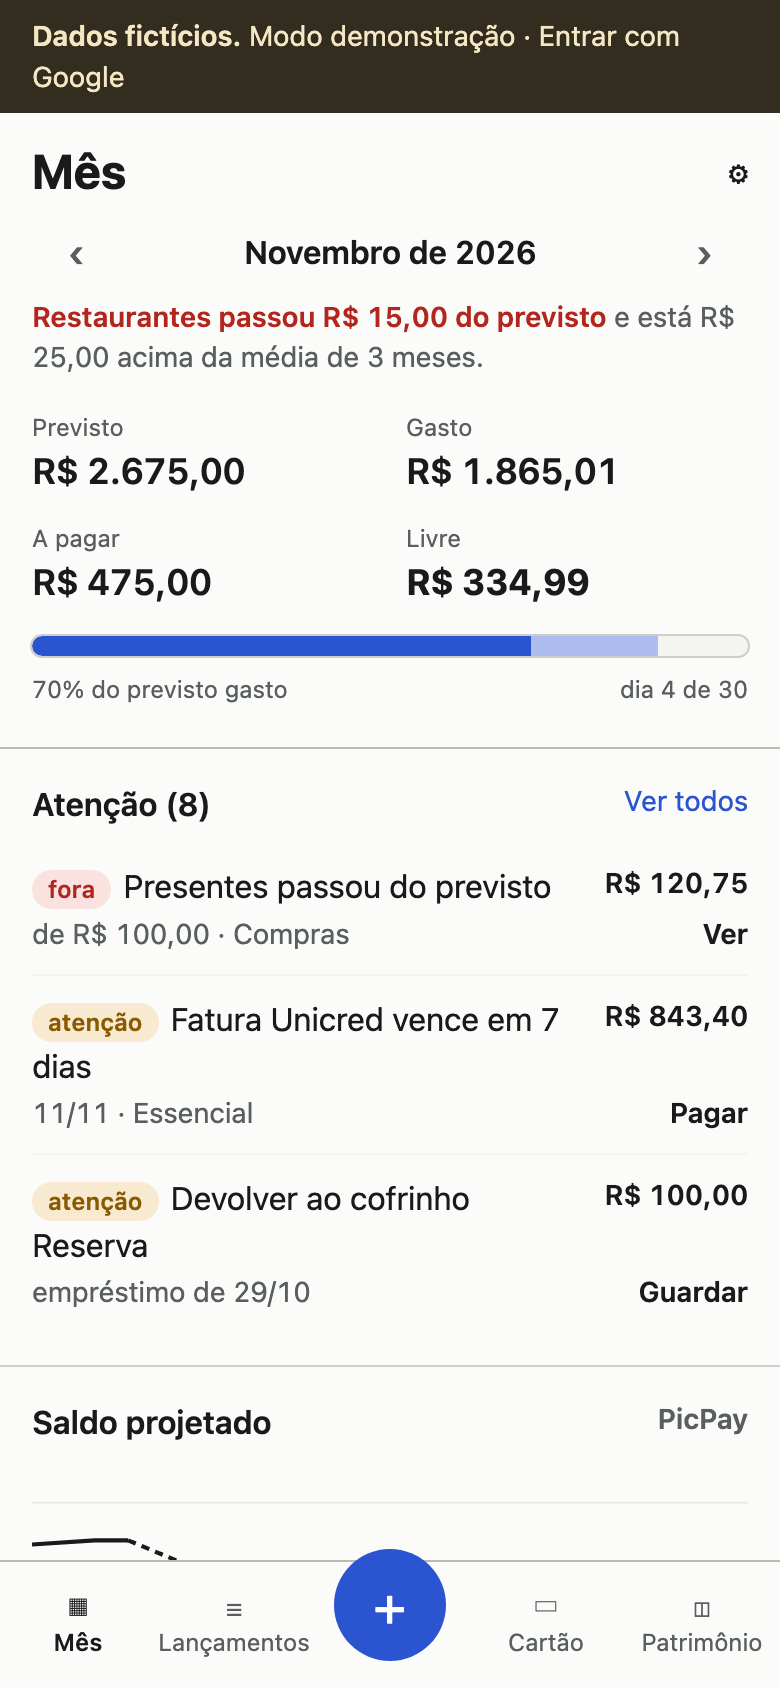
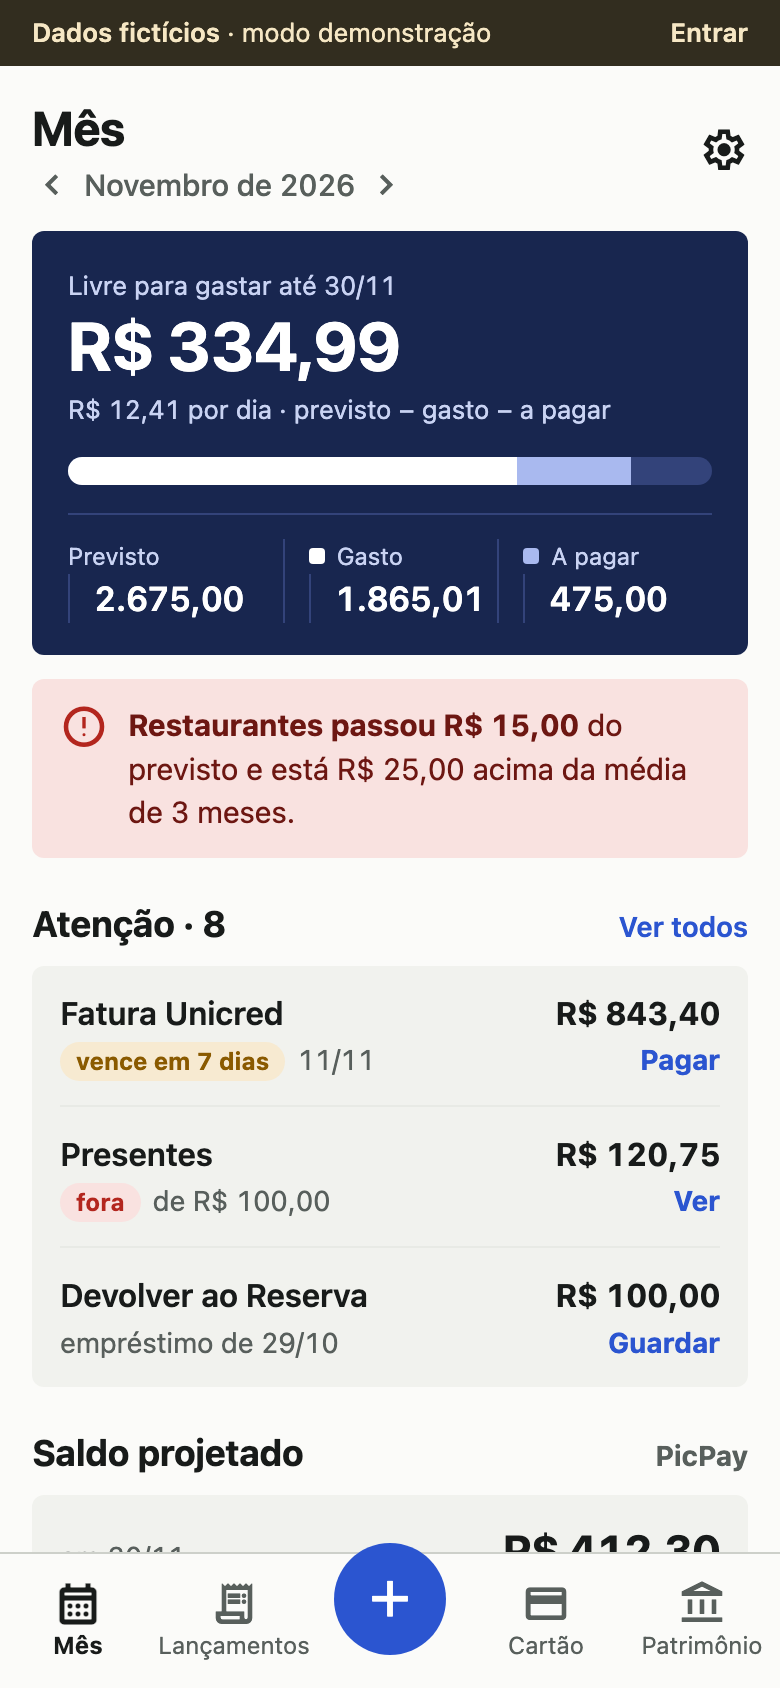
docs: esboço do Mês com bloco de destaque

diff --git a/docs/v3/esbocos/mes.html b/docs/v3/esbocos/mes.html
@@ -1,69 +1,93 @@
 <!doctype html>
 <html lang="pt-BR"><head><meta charset="utf-8"><meta name="viewport" content="width=device-width,initial-scale=1">
-<title>Mês · esboço</title>
+<title>Mês · esboço v2</title>
+<link rel="stylesheet" href="https://fonts.googleapis.com/css2?family=Material+Symbols+Outlined:opsz,wght,FILL,GRAD@24,400,0,0">
 <style>
-:root{--fundo:#fbfbf9;--sup:#f4f4f1;--texto:#181b1a;--t2:#585f5c;--regua:#cdd0ca;--forte:#b8bcb5;--azul:#2b55d0;--azul-claro:#aebdf0;--fora:#b3261e;--fora-f:#f9e2e0;--perto:#8a5a00;--perto-f:#f7ead1;--tarja:#322d1f;--tarja-t:#f6e7c4}
+:root{--fundo:#fbfbf9;--sup:#f1f2ee;--sup2:#e8eae5;--texto:#181b1a;--t2:#585f5c;--regua:#cdd0ca;--azul:#2b55d0;--azul-claro:#a9b9ef;--azul-f:#e6ecfb;--fora:#b3261e;--fora-f:#f9e2e0;--perto:#8a5a00;--perto-f:#f7ead1;--tarja:#322d1f;--tarja-t:#f6e7c4}
 *{box-sizing:border-box;margin:0}
-html{width:390px;overflow:hidden}body{width:390px;font:16px/1.45 system-ui,-apple-system,"Segoe UI",Roboto,sans-serif;background:var(--fundo);color:var(--texto);font-variant-numeric:tabular-nums;padding-bottom:80px}
-.tarja{background:var(--tarja);color:var(--tarja-t);font-size:14px;padding:8px 16px}
-.tarja b{font-weight:600}
-header{display:flex;justify-content:space-between;align-items:center;padding:12px 16px 0}
-h1{font-size:24px;font-weight:700}
-.mes{display:flex;justify-content:space-between;align-items:center;padding:8px 16px;font-weight:600}
-.mes span{color:var(--t2);font-size:20px;width:44px;text-align:center}
-.achado{margin:0 16px 16px;font-size:14px;color:var(--t2)}
-.achado b{color:var(--fora);font-weight:600}
-.regua{padding:0 16px 20px;border-bottom:1px solid var(--forte)}
-.grade{display:grid;grid-template-columns:1fr 1fr;gap:12px 16px;margin-bottom:14px}
-.rot{font-size:12px;color:var(--t2)}
-.val{font-size:18px;font-weight:600}
-.val.livre{font-weight:700}
-.trilho{height:10px;border-radius:999px;background:var(--sup);display:flex;overflow:hidden;outline:1px solid var(--regua)}
+html{width:390px;overflow:hidden}
+body{width:390px;font:16px/1.45 system-ui,-apple-system,"Segoe UI",Roboto,sans-serif;background:var(--fundo);color:var(--texto);font-variant-numeric:tabular-nums;padding-bottom:84px}
+.ms{font-family:"Material Symbols Outlined";font-size:24px;line-height:1;vertical-align:middle}
+.tarja{background:var(--tarja);color:var(--tarja-t);font-size:13px;padding:7px 16px;display:flex;justify-content:space-between}
+.tarja b{font-weight:600}.tarja u{text-decoration:none;font-weight:600}
+header{display:flex;justify-content:space-between;align-items:center;padding:14px 16px 2px}
+h1{font-size:24px;font-weight:700;letter-spacing:-.01em}
+.mes{display:flex;align-items:center;gap:6px;color:var(--t2);font-size:15px;font-weight:500}
+/* bloco herói: fundo azul escuro, o único campo de cor da tela */
+.heroi{margin:10px 16px 0;background:#18264f;color:#fff;border-radius:6px;padding:18px 18px 16px}
+.heroi .rot{font-size:13px;color:#c9d3f3}
+.heroi .livre{font-size:34px;font-weight:700;letter-spacing:-.02em;line-height:1.1;margin:2px 0 4px}
+.heroi .conta{font-size:13px;color:#c9d3f3;margin-bottom:14px}
+.trilho{height:14px;border-radius:999px;background:#33437a;display:flex;overflow:hidden}
 .trilho i{display:block;height:100%}
-.legenda{font-size:12px;color:var(--t2);margin-top:8px;display:flex;justify-content:space-between}
-section{padding:16px;border-bottom:1px solid var(--regua)}
-h2{font-size:16px;font-weight:600;display:flex;justify-content:space-between;margin-bottom:8px}
-h2 a{font-size:14px;color:var(--azul);font-weight:400;text-decoration:none}
-.item{display:grid;grid-template-columns:1fr auto;gap:2px 12px;padding:10px 0;border-top:1px solid var(--sup)}
-.item:first-of-type{border-top:0}
+.tres{display:grid;grid-template-columns:repeat(3,1fr);margin-top:14px;border-top:1px solid #33437a;padding-top:12px}
+.tres div+div{border-left:1px solid #33437a;padding-left:12px}
+.tres .r{font-size:12px;color:#c9d3f3;display:flex;align-items:center;gap:6px}
+.tres .v{font-size:17px;font-weight:600}
+.dot{width:8px;height:8px;border-radius:2px;display:inline-block}
+/* achado */
+.achado{margin:12px 16px 0;background:var(--fora-f);color:#6d1712;border-radius:6px;padding:12px 14px;display:flex;gap:10px;font-size:15px}
+.achado .ms{color:var(--fora)}
+.achado b{font-weight:700}
+section{margin:20px 16px 0}
+h2{font-size:18px;font-weight:700;display:flex;justify-content:space-between;align-items:baseline;margin-bottom:8px}
+h2 a{font-size:14px;color:var(--azul);font-weight:600;text-decoration:none}
+.lista{background:var(--sup);border-radius:6px;padding:0 14px}
+.item{display:grid;grid-template-columns:1fr auto;gap:2px 12px;padding:12px 0;border-top:1px solid var(--sup2)}
+.item:first-child{border-top:0}
+.nome{font-weight:600}
+.valor{font-weight:700;text-align:right}
 .sub{font-size:14px;color:var(--t2)}
-.selo{display:inline-block;font-size:12px;font-weight:600;border-radius:999px;padding:1px 8px;margin-right:6px}
+.acao{font-size:14px;font-weight:700;color:var(--azul);text-align:right}
+.selo{display:inline-block;font-size:12px;font-weight:700;border-radius:999px;padding:1px 8px;margin-right:6px}
 .selo.f{background:var(--fora-f);color:var(--fora)}.selo.p{background:var(--perto-f);color:var(--perto)}
-.acao{font-size:14px;color:var(--texto);font-weight:600;text-align:right}
-nav{position:fixed;bottom:0;left:0;width:390px;height:64px;background:var(--fundo);border-top:1px solid var(--forte);display:grid;grid-template-columns:repeat(5,1fr);align-items:center;text-align:center;font-size:12px;color:var(--t2)}
-nav .ativo{color:var(--texto);font-weight:600}
-nav .lancar{width:56px;height:56px;border-radius:50%;background:var(--azul);color:#fff;font-size:28px;line-height:56px;margin:-20px auto 0}
+.proj{background:var(--sup);border-radius:6px;padding:12px 14px}
+.proj .fim{display:flex;justify-content:space-between;align-items:baseline}
+.proj .fim b{font-size:22px;letter-spacing:-.01em}
+nav{position:fixed;bottom:0;left:0;width:390px;height:68px;background:var(--fundo);border-top:1px solid var(--regua);display:grid;grid-template-columns:repeat(5,1fr);align-items:center;text-align:center;font-size:12px;color:var(--t2)}
+nav .ativo{color:var(--texto);font-weight:700}
+nav .lancar{width:56px;height:56px;border-radius:50%;background:var(--azul);color:#fff;display:flex;align-items:center;justify-content:center;margin:-22px auto 0}
+nav .lancar .ms{font-size:30px}
 </style></head><body>
-<div class="tarja"><b>Dados fictícios.</b> Modo demonstração · Entrar com Google</div>
-<header><h1>Mês</h1><span aria-label="Ajustes">⚙</span></header>
-<div class="mes"><span>‹</span>Novembro de 2026<span>›</span></div>
-<p class="achado"><b>Restaurantes passou R$ 15,00 do previsto</b> e está R$ 25,00 acima da média de 3 meses.</p>
-<div class="regua">
-  <div class="grade">
-    <div><div class="rot">Previsto</div><div class="val">R$ 2.675,00</div></div>
-    <div><div class="rot">Gasto</div><div class="val">R$ 1.865,01</div></div>
-    <div><div class="rot">A pagar</div><div class="val">R$ 475,00</div></div>
-    <div><div class="rot">Livre</div><div class="val livre">R$ 334,99</div></div>
+<div class="tarja"><span><b>Dados fictícios</b> · modo demonstração</span><u>Entrar</u></div>
+<header><div><h1>Mês</h1><div class="mes"><span class="ms" style="font-size:20px">chevron_left</span>Novembro de 2026<span class="ms" style="font-size:20px">chevron_right</span></div></div><span class="ms" aria-label="Ajustes">settings</span></header>
+
+<div class="heroi">
+  <div class="rot">Livre para gastar até 30/11</div>
+  <div class="livre">R$ 334,99</div>
+  <div class="conta">R$ 12,41 por dia · previsto − gasto − a pagar</div>
+  <div class="trilho" role="img" aria-label="Gasto 70%, a pagar 18%, livre 12% do previsto"><i style="width:69.7%;background:#fff"></i><i style="width:17.8%;background:var(--azul-claro)"></i></div>
+  <div class="tres">
+    <div><div class="r">Previsto</div><div class="v">2.675,00</div></div>
+    <div><div class="r"><span class="dot" style="background:#fff"></span>Gasto</div><div class="v">1.865,01</div></div>
+    <div><div class="r"><span class="dot" style="background:var(--azul-claro)"></span>A pagar</div><div class="v">475,00</div></div>
   </div>
-  <div class="trilho" role="img" aria-label="Gasto 70%, a pagar 18%, livre 12% do previsto"><i style="width:69.7%;background:var(--azul)"></i><i style="width:17.8%;background:var(--azul-claro)"></i></div>
-  <div class="legenda"><span>70% do previsto gasto</span><span>dia 4 de 30</span></div>
 </div>
+
+<div class="achado"><span class="ms">error</span><div><b>Restaurantes passou R$ 15,00</b> do previsto e está R$ 25,00 acima da média de 3 meses.</div></div>
+
 <section>
-  <h2>Atenção (8) <a href="#">Ver todos</a></h2>
-  <div class="item"><div><span class="selo f">fora</span>Presentes passou do previsto</div><div class="acao">R$ 120,75</div><div class="sub">de R$ 100,00 · Compras</div><div class="acao">Ver</div></div>
-  <div class="item"><div><span class="selo p">atenção</span>Fatura Unicred vence em 7 dias</div><div class="acao">R$ 843,40</div><div class="sub">11/11 · Essencial</div><div class="acao">Pagar</div></div>
-  <div class="item"><div><span class="selo p">atenção</span>Devolver ao cofrinho Reserva</div><div class="acao">R$ 100,00</div><div class="sub">empréstimo de 29/10</div><div class="acao">Guardar</div></div>
+  <h2>Atenção · 8 <a href="#">Ver todos</a></h2>
+  <div class="lista">
+    <div class="item"><div class="nome">Fatura Unicred</div><div class="valor">R$ 843,40</div><div class="sub"><span class="selo p">vence em 7 dias</span>11/11</div><div class="acao">Pagar</div></div>
+    <div class="item"><div class="nome">Presentes</div><div class="valor">R$ 120,75</div><div class="sub"><span class="selo f">fora</span>de R$ 100,00</div><div class="acao">Ver</div></div>
+    <div class="item"><div class="nome">Devolver ao Reserva</div><div class="valor">R$ 100,00</div><div class="sub">empréstimo de 29/10</div><div class="acao">Guardar</div></div>
+  </div>
 </section>
+
 <section>
   <h2>Saldo projetado <span class="sub">PicPay</span></h2>
-  <svg viewBox="0 0 343 120" width="100%" role="img" aria-label="Saldo de R$ 1.840,35 hoje até R$ 412,30 em 30/11">
-    <line x1="0" y1="100" x2="343" y2="100" stroke="#ecece9"/><line x1="0" y1="60" x2="343" y2="60" stroke="#ecece9"/><line x1="0" y1="20" x2="343" y2="20" stroke="#ecece9"/>
-    <polyline fill="none" stroke="#181b1a" stroke-width="2" points="0,40 30,38 46,38"/>
-    <polyline fill="none" stroke="#181b1a" stroke-width="2" stroke-dasharray="4 3" points="46,38 70,48 80,72 160,74 210,78 250,62 300,84 343,86"/>
-    <text x="250" y="56" font-size="11" fill="#585f5c">freelance</text>
-    <text x="70" y="92" font-size="11" fill="#585f5c">fatura</text>
-    <text x="343" y="112" font-size="12" text-anchor="end" fill="#181b1a">R$ 412,30 em 30/11</text>
-  </svg>
+  <div class="proj">
+    <div class="fim"><span class="sub">em 30/11</span><b>R$ 412,30</b></div>
+    <svg viewBox="0 0 330 90" width="100%" role="img" aria-label="Saldo projetado">
+      <line x1="0" y1="80" x2="330" y2="80" stroke="#d9dbd5"/><line x1="0" y1="45" x2="330" y2="45" stroke="#e8eae5"/><line x1="0" y1="10" x2="330" y2="10" stroke="#e8eae5"/>
+      <polyline fill="none" stroke="#181b1a" stroke-width="2.5" points="0,22 30,20 44,20"/>
+      <polyline fill="none" stroke="#2b55d0" stroke-width="2.5" stroke-dasharray="5 4" points="44,20 68,30 78,56 155,58 205,62 240,44 290,66 330,68"/>
+      <text x="240" y="38" font-size="11" fill="#585f5c" text-anchor="middle">freelance</text>
+      <text x="78" y="72" font-size="11" fill="#585f5c">fatura</text>
+    </svg>
+  </div>
 </section>
-<nav><div class="ativo">▦<br>Mês</div><div>☰<br>Lançamentos</div><div><div class="lancar" aria-label="Lançar">+</div></div><div>▭<br>Cartão</div><div>◫<br>Patrimônio</div></nav>
+
+<nav><div class="ativo"><span class="ms">calendar_month</span><br>Mês</div><div><span class="ms">receipt_long</span><br>Lançamentos</div><div><div class="lancar" aria-label="Lançar"><span class="ms">add</span></div></div><div><span class="ms">credit_card</span><br>Cartão</div><div><span class="ms">account_balance</span><br>Patrimônio</div></nav>
 </body></html>

diff --git a/docs/v3/06b-telas.md b/docs/v3/06b-telas.md
@@ -293,3 +293,21 @@ Escritos como asserções, no arquivo do seed (ideia 18):
 dados fictícios do diagnóstico: tarja, mês, a descoberta do dia, a régua com os quatro
 números, a Atenção e o começo do saldo projetado acima da barra inferior. É esboço
 estático, não código do app.
+
+### Revisão do esboço (Pedro, 2026-11-04)
+
+Retorno: "um pouco sem destaque, tudo com texto muito regularizado". O esboço v2
+muda três coisas, e esta é a direção que vale para as outras telas:
+
+1. **Um bloco de destaque por tela**, num campo de azul-escuro (`#18264f`, texto
+   branco), que é o único campo de cor da tela. No Mês, ele contém **Livre** como o
+   número que lidera (34 px) e, logo abaixo, a régua e os outros três números
+   (Previsto, Gasto, A pagar) separados e legíveis, como o Pedro pediu no Portão 1.
+   Isto se afasta do Achromatic ledger puro (que não tem campo de cor) de propósito.
+2. **A descoberta do dia vira faixa** com fundo do estado (vermelho claro quando é
+   estouro), e não mais uma linha cinza.
+3. **Listas em blocos com fundo** (`--fin-superficie`) em vez de linhas soltas no
+   papel; nome em 600, valor em 700, ação em azul e em negrito.
+
+Nas outras telas, o bloco de destaque leva: Cartão → total da fatura e Pagar;
+Patrimônio → patrimônio líquido e as partes; Lançamentos não tem (é lista).
